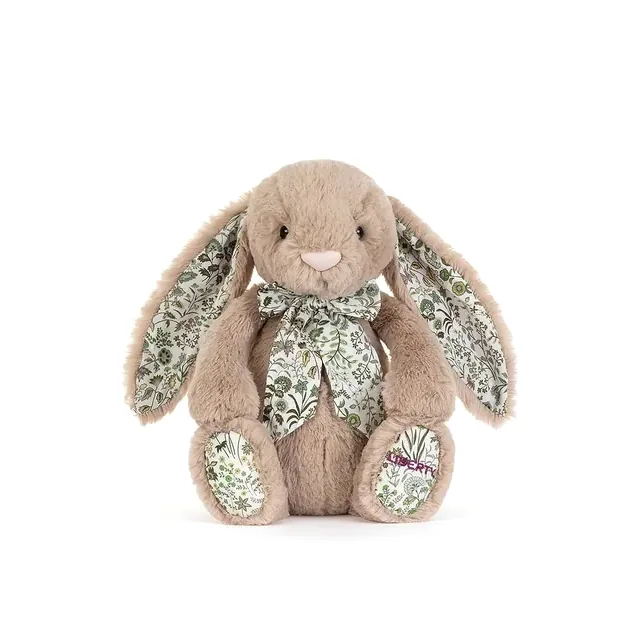
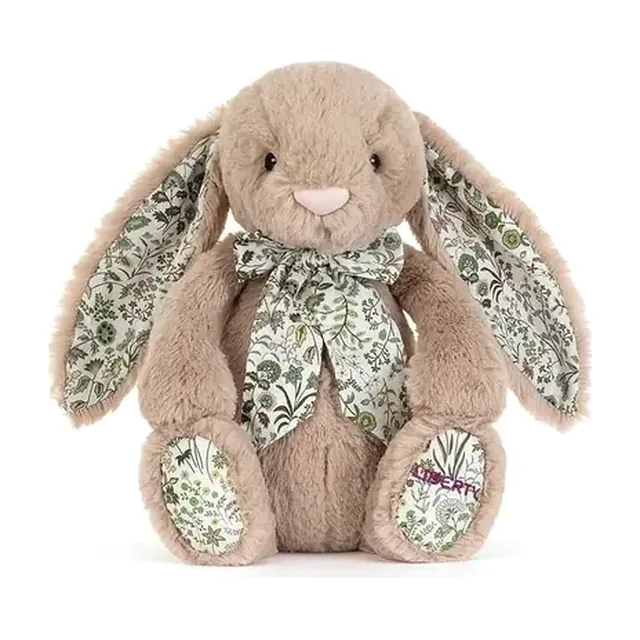
Home Exclusives: nền hồng, lưới 5 card không bị cắt, bỏ giá; Size guide nền be; ảnh Liberty cắt sát (v=3)

diff --git a/index.html b/index.html
@@ -183,14 +183,22 @@ button{font-family:inherit;border:none;background:none;cursor:pointer;color:inhe
 .rail-nav svg{width:16px;height:16px;stroke:var(--ink);fill:none;stroke-width:1.6}
 
 /* ── EXCLUSIVES ── */
-.excl{background:var(--sand)}
-.excl .wrap{display:grid;gap:44px;padding-top:88px;padding-bottom:88px}
-.excl-list{display:flex;gap:16px;overflow-x:auto;scroll-snap-type:x mandatory;scrollbar-width:none;margin:0 calc(var(--gut)*-1);padding:0 var(--gut)}
+.excl{background:linear-gradient(180deg,#FBE4E9 0%,#F8D9E0 100%)}
+.excl .wrap{padding-top:88px;padding-bottom:88px}
+.excl-head{display:grid;gap:18px;margin-bottom:40px}
+.excl .eyebrow{color:#9A5A68}
+.excl .eyebrow b{color:var(--pink-deep)}
+.excl .lead{color:#5C4247}
+.excl-list{display:flex;gap:12px;overflow-x:auto;scroll-snap-type:x mandatory;scrollbar-width:none;margin:0 calc(var(--gut)*-1);padding:0 var(--gut) 4px;scroll-padding:0 var(--gut)}
 .excl-list::-webkit-scrollbar{display:none}
-.excl-list .pcard{width:66vw;max-width:300px;scroll-snap-align:start}
-.excl-list .pimg{background:radial-gradient(circle at 50% 42%,#FFFFFF 0%,#FFFDFB 60%,#F7F2EC 100%)}
-.origin{display:block;font-size:10.5px;font-weight:500;letter-spacing:.14em;text-transform:uppercase;color:var(--pink-deep);margin-top:14px}
-.excl-list .pname{margin-top:4px;font-family:var(--display);font-size:18px;letter-spacing:-.025em}
+.xcard{flex:0 0 auto;width:62vw;max-width:260px;scroll-snap-align:start;background:#fff;border-radius:22px;padding:10px 10px 18px;box-shadow:0 1px 0 rgba(122,30,62,.04),0 14px 34px -18px rgba(122,30,62,.28);transition:transform .4s cubic-bezier(.2,.8,.2,1),box-shadow .4s}
+.xcard:hover{transform:translateY(-6px);box-shadow:0 1px 0 rgba(122,30,62,.04),0 24px 44px -18px rgba(122,30,62,.38)}
+.xcard .pimg{border-radius:16px;background:radial-gradient(circle at 50% 45%,#FFFFFF 0%,#FFF9FA 60%,#FCEFF2 100%);box-shadow:none}
+.xcard .pimg img{padding:12%}
+.xcard-body{padding:14px 8px 0}
+.origin{display:block;font-size:10.5px;font-weight:500;letter-spacing:.12em;text-transform:uppercase;color:var(--pink-deep);white-space:nowrap;overflow:hidden;text-overflow:ellipsis}
+.xcard .pname{margin-top:6px;font-family:var(--display);font-size:17px;letter-spacing:-.02em}
+.xcard .xsz{font-size:12px;color:var(--mute);margin-top:2px}
 
 /* ── BUDGET ── */
 .tabs{display:flex;gap:6px;overflow-x:auto;scrollbar-width:none;margin-bottom:30px}
@@ -204,7 +212,7 @@ button{font-family:inherit;border:none;background:none;cursor:pointer;color:inhe
 .budget-foot{margin-top:40px;display:flex;justify-content:center}
 
 /* ── SIZE GUIDE ── */
-.size{background:var(--blush)}
+.size{background:var(--sand)}
 .size .wrap{padding-top:88px;padding-bottom:76px}
 .ruler{position:relative;margin-top:48px;overflow-x:auto;scrollbar-width:none;padding-bottom:6px}
 .ruler::-webkit-scrollbar{display:none}
@@ -305,9 +313,10 @@ button{font-family:inherit;border:none;background:none;cursor:pointer;color:inhe
   .rail .pcard{width:300px;max-width:none}
   .rail-nav{display:flex}
   .rail{padding-left:max(var(--gut),calc((100vw - var(--max))/2 + var(--gut)));scroll-padding-left:max(var(--gut),calc((100vw - var(--max))/2 + var(--gut)))}
-  .excl .wrap{grid-template-columns:.8fr 1.6fr;align-items:center;padding-top:128px;padding-bottom:128px}
-  .excl-list{margin:0;padding:0}
-  .excl-list .pcard{width:270px}
+  .excl .wrap{padding-top:120px;padding-bottom:120px}
+  .excl-head{grid-template-columns:1fr 1fr;align-items:end;gap:60px;margin-bottom:52px}
+  .excl-list{display:grid;grid-template-columns:repeat(5,1fr);gap:16px;overflow:visible;margin:0;padding:0}
+  .xcard{width:auto;max-width:none}
   .grid{grid-template-columns:repeat(4,1fr);gap:40px 18px}
   .size .wrap{padding-top:128px;padding-bottom:110px}
   .ruler-in{gap:12px}
@@ -373,7 +382,7 @@ button{font-family:inherit;border:none;background:none;cursor:pointer;color:inhe
       <div class="slide on" data-name="Bashful Luxe Bunny Azure" data-meta="Huge · Bunny"><img src="img/Azure%20Huge%20Bunny.webp" alt="Bashful Luxe Bunny Azure" fetchpriority="high"></div>
       <div class="slide" data-name="Bartholomew Bear 'Bumblebee'" data-meta="Bear"><img src="img/Bartholomew%20Bear%20Bumblebee.webp" alt="Bartholomew Bear Bumblebee" loading="lazy"></div>
       <div class="slide" data-name="Blossom Tulip Pink Bunny" data-meta="Medium · Bunny"><img src="img/Blossom%20Tulip%20Pink%20Bunny.webp" alt="Blossom Tulip Pink Bunny" loading="lazy"></div>
-      <div class="slide" data-name="Liberty Mirabelle Bunny" data-meta="Liberty London exclusive"><img src="img/Liberty%20Mirabelle%20Bunny.webp?v=2" alt="Liberty Mirabelle Bunny" loading="lazy"></div>
+      <div class="slide" data-name="Liberty Mirabelle Bunny" data-meta="Liberty London exclusive"><img src="img/Liberty%20Mirabelle%20Bunny.webp?v=3" alt="Liberty Mirabelle Bunny" loading="lazy"></div>
       <div class="cap"><div class="cap-t" id="capT"><b>Bashful Luxe Bunny Azure</b>Huge · Bunny</div><div class="dots" id="dots"><i class="on"></i><i></i><i></i><i></i></div></div>
     </a>
   </div>
@@ -423,10 +432,9 @@ button{font-family:inherit;border:none;background:none;cursor:pointer;color:inhe
 <!-- ── 03 EXCLUSIVES ───────────────────────────────────────── -->
 <section class="excl" id="exclusive">
   <div class="wrap">
-    <div class="rv">
-      <div class="eyebrow"><b>03</b> — Rare finds</div>
-      <h2 class="h2">From London<br>&amp; New York</h2>
-      <p class="lead" style="margin-top:20px">Pieces sold only at Selfridges, Liberty London and FAO Schwarz in New York. Made in small numbers — brought home to Saigon for you.</p>
+    <div class="excl-head rv">
+      <div><div class="eyebrow"><b>03</b> — Rare finds</div><h2 class="h2">From London<br>&amp; New York</h2></div>
+      <p class="lead">Pieces sold only at Selfridges, Liberty London and FAO Schwarz in New York. Made in small numbers — brought home to Saigon for you.</p>
     </div>
     <div class="excl-list rv" id="exclList"></div>
   </div>
@@ -542,7 +550,7 @@ function fmtPrice(p){
 }
 const NEW_SINCE_ID = 309;
 const COL_EN = {Bunny:'Bunny',Dragon:'Dragon',Bear:'Bear',Smudge:'Smudge',Animal:'Animal',Food:'Food',Plants:'Plants',Keycharm:'Bag charm',Bag:'Bag'};
-const ORIGIN = {'Selfridges Exclusive':'Selfridges · London','Liberty Exclusive':'Liberty · London','NYC Exclusive':'FAO Schwarz · New York'};
+const ORIGIN = {'Selfridges Exclusive':'Selfridges','Liberty Exclusive':'Liberty London','NYC Exclusive':'FAO Schwarz NY'};
 const esc = s => String(s).replace(/[&<>"]/g, c => ({'&':'&amp;','<':'&lt;','>':'&gt;','"':'&quot;'}[c]));
 function card(p, tag){
   return `<a class="pcard" href="/shop?p=${p.id}" data-pid="${p.id}">
@@ -552,7 +560,7 @@ function card(p, tag){
   </a>`;
 }
 document.addEventListener('click', e => {
-  const a = e.target.closest('.pcard[data-pid]');
+  const a = e.target.closest('[data-pid]');
   if(a) trackEvent('home_product_click', {product_id: +a.dataset.pid});
 });
 
@@ -577,8 +585,10 @@ function renderNew(P){
   document.getElementById('newRail').innerHTML = list.map(p => card(p, 'New')).join('');
 }
 function renderExclusive(P){
-  document.getElementById('exclList').innerHTML = P.filter(p => p.badge).map(p =>
-    card(p).replace('<div class="pname">', `<span class="origin">${esc(ORIGIN[p.badge] || p.badge)}</span><div class="pname">`)).join('');
+  document.getElementById('exclList').innerHTML = P.filter(p => p.badge).map(p => `<a class="xcard" href="/shop?p=${p.id}" data-pid="${p.id}">
+    <div class="pimg"><img src="${p.img}" alt="${esc(p.name)}" loading="lazy" decoding="async"></div>
+    <div class="xcard-body"><span class="origin">${esc(ORIGIN[p.badge] || p.badge)}</span><div class="pname">${esc(displayName(p))}</div><div class="xsz">${esc(p.label || COL_EN[p.collection] || p.collection)}</div></div>
+  </a>`).join('');
 }
 
 const BANDS = [

diff --git a/bunniihaus_design.html b/bunniihaus_design.html
@@ -930,8 +930,8 @@ const PRODUCTS = [
   {id:293,name:"Cerulea Luxe Bunny — Medium",collection:"Bunny",label:"Medium",price:"2650k",priceNum:2650,badge:"Selfridges Exclusive",shapeBg:"#FFF5F7",img:"img/Cerulea%20Luxe%20Bunny.webp?v=2"},
   {id:294,name:"Bashful Luxe Bunny Amberley — Medium",collection:"Bunny",label:"Medium",price:"11900k",priceNum:11900,shapeBg:"#FFF5F7",img:"img/Bashful%20Luxe%20Bunny%20Amberley.webp"},
   {id:295,name:"Bashful Luxe Bunny Cobblehop — Medium",collection:"Bunny",label:"Medium",price:"7900k",priceNum:7900,shapeBg:"#FFFAF5",img:"img/Bashful%20Luxe%20Bunny%20Cobblehop.webp?v=3"},
-  {id:296,name:"Liberty Shepherdley Bunny — Medium",collection:"Bunny",label:"Medium",price:"2450k",priceNum:2450,badge:"Liberty Exclusive",shapeBg:"#FFF7F9",img:"img/Liberty%20Shepherdley%20Bunny.webp?v=2"},
-  {id:297,name:"Liberty Mirabelle Bunny — Medium",collection:"Bunny",label:"Medium",price:"2450k",priceNum:2450,badge:"Liberty Exclusive",shapeBg:"#FFF5F7",img:"img/Liberty%20Mirabelle%20Bunny.webp?v=2"},
+  {id:296,name:"Liberty Shepherdley Bunny — Medium",collection:"Bunny",label:"Medium",price:"2450k",priceNum:2450,badge:"Liberty Exclusive",shapeBg:"#FFF7F9",img:"img/Liberty%20Shepherdley%20Bunny.webp?v=3"},
+  {id:297,name:"Liberty Mirabelle Bunny — Medium",collection:"Bunny",label:"Medium",price:"2450k",priceNum:2450,badge:"Liberty Exclusive",shapeBg:"#FFF5F7",img:"img/Liberty%20Mirabelle%20Bunny.webp?v=3"},
   {id:298,name:"Heart Dragon — Large",collection:"Dragon",label:"Large",price:"3150k",priceNum:3150,shapeBg:"#FFF7F9",img:"img/Heart%20Dragon%20Large.webp"},
   {id:299,name:"Inkli Bunny — Huge",collection:"Bunny",label:"Huge",price:"6500k",priceNum:6500,shapeBg:"#FFFAF5",img:"img/Inkli%20Bunny%20Huge.webp"},
   {id:300,name:"Smudge Bear — Medium",collection:"Smudge",label:"Medium",price:"2890k",priceNum:2890,shapeBg:"#FFF7F9",img:"img/Smudge%20Bear.webp"},

diff --git a/shop.html b/shop.html
@@ -930,8 +930,8 @@ const PRODUCTS = [
   {id:293,name:"Cerulea Luxe Bunny — Medium",collection:"Bunny",label:"Medium",price:"2650k",priceNum:2650,badge:"Selfridges Exclusive",shapeBg:"#FFF5F7",img:"img/Cerulea%20Luxe%20Bunny.webp?v=2"},
   {id:294,name:"Bashful Luxe Bunny Amberley — Medium",collection:"Bunny",label:"Medium",price:"11900k",priceNum:11900,shapeBg:"#FFF5F7",img:"img/Bashful%20Luxe%20Bunny%20Amberley.webp"},
   {id:295,name:"Bashful Luxe Bunny Cobblehop — Medium",collection:"Bunny",label:"Medium",price:"7900k",priceNum:7900,shapeBg:"#FFFAF5",img:"img/Bashful%20Luxe%20Bunny%20Cobblehop.webp?v=3"},
-  {id:296,name:"Liberty Shepherdley Bunny — Medium",collection:"Bunny",label:"Medium",price:"2450k",priceNum:2450,badge:"Liberty Exclusive",shapeBg:"#FFF7F9",img:"img/Liberty%20Shepherdley%20Bunny.webp?v=2"},
-  {id:297,name:"Liberty Mirabelle Bunny — Medium",collection:"Bunny",label:"Medium",price:"2450k",priceNum:2450,badge:"Liberty Exclusive",shapeBg:"#FFF5F7",img:"img/Liberty%20Mirabelle%20Bunny.webp?v=2"},
+  {id:296,name:"Liberty Shepherdley Bunny — Medium",collection:"Bunny",label:"Medium",price:"2450k",priceNum:2450,badge:"Liberty Exclusive",shapeBg:"#FFF7F9",img:"img/Liberty%20Shepherdley%20Bunny.webp?v=3"},
+  {id:297,name:"Liberty Mirabelle Bunny — Medium",collection:"Bunny",label:"Medium",price:"2450k",priceNum:2450,badge:"Liberty Exclusive",shapeBg:"#FFF5F7",img:"img/Liberty%20Mirabelle%20Bunny.webp?v=3"},
   {id:298,name:"Heart Dragon — Large",collection:"Dragon",label:"Large",price:"3150k",priceNum:3150,shapeBg:"#FFF7F9",img:"img/Heart%20Dragon%20Large.webp"},
   {id:299,name:"Inkli Bunny — Huge",collection:"Bunny",label:"Huge",price:"6500k",priceNum:6500,shapeBg:"#FFFAF5",img:"img/Inkli%20Bunny%20Huge.webp"},
   {id:300,name:"Smudge Bear — Medium",collection:"Smudge",label:"Medium",price:"2890k",priceNum:2890,shapeBg:"#FFF7F9",img:"img/Smudge%20Bear.webp"},
